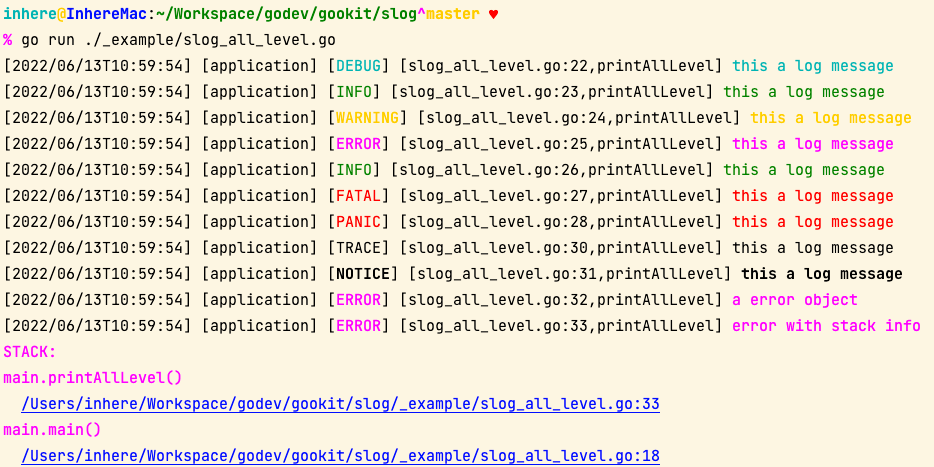
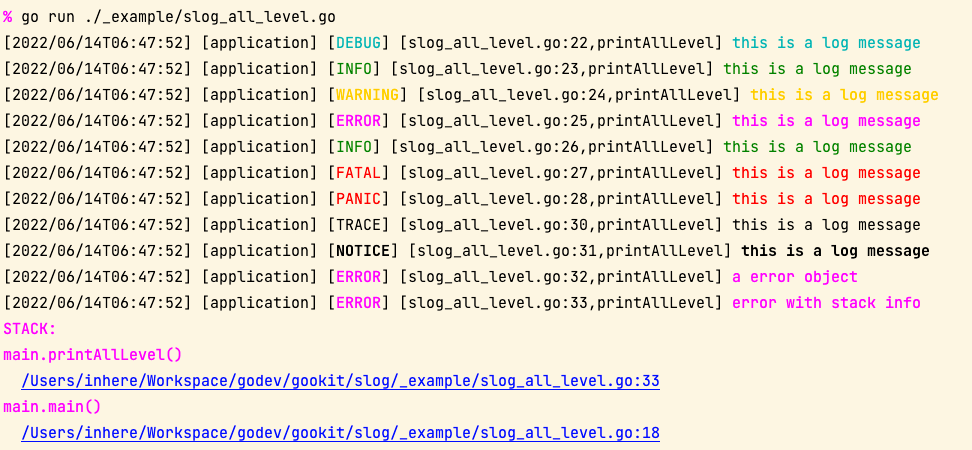
chore: update preview image and fix a test error

Changed region(s): [[0.0, 0.0, 0.9936, 0.9956]]

diff --git a/handler/rotate_file_test.go b/handler/rotate_file_test.go
@@ -125,7 +125,7 @@ func TestNewTimeRotateFileHandler_EveryHour(t *testing.T) {
 	assert.NoError(t, fsutil.DeleteIfExist(logfile))
 
 	hourStart := timex.Now().HourStart()
-	newFile := logfile + hourStart.DateFormat(".YMD_H00")
+	newFile := logfile + hourStart.DateFormat(".Ymd_H00")
 	assert.NoError(t, fsutil.DeleteIfFileExist(newFile))
 
 	sec := -2

diff --git a/_example/slog_all_level.go b/_example/slog_all_level.go
@@ -15,7 +15,7 @@ func main() {
 	})
 
 	l.AddHandler(handler.NewConsoleHandler(slog.AllLevels))
-	printAllLevel(l, "this a", "log", "message")
+	printAllLevel(l, "this is a", "log", "message")
 }
 
 func printAllLevel(l *slog.Logger, args ...interface{}) {
